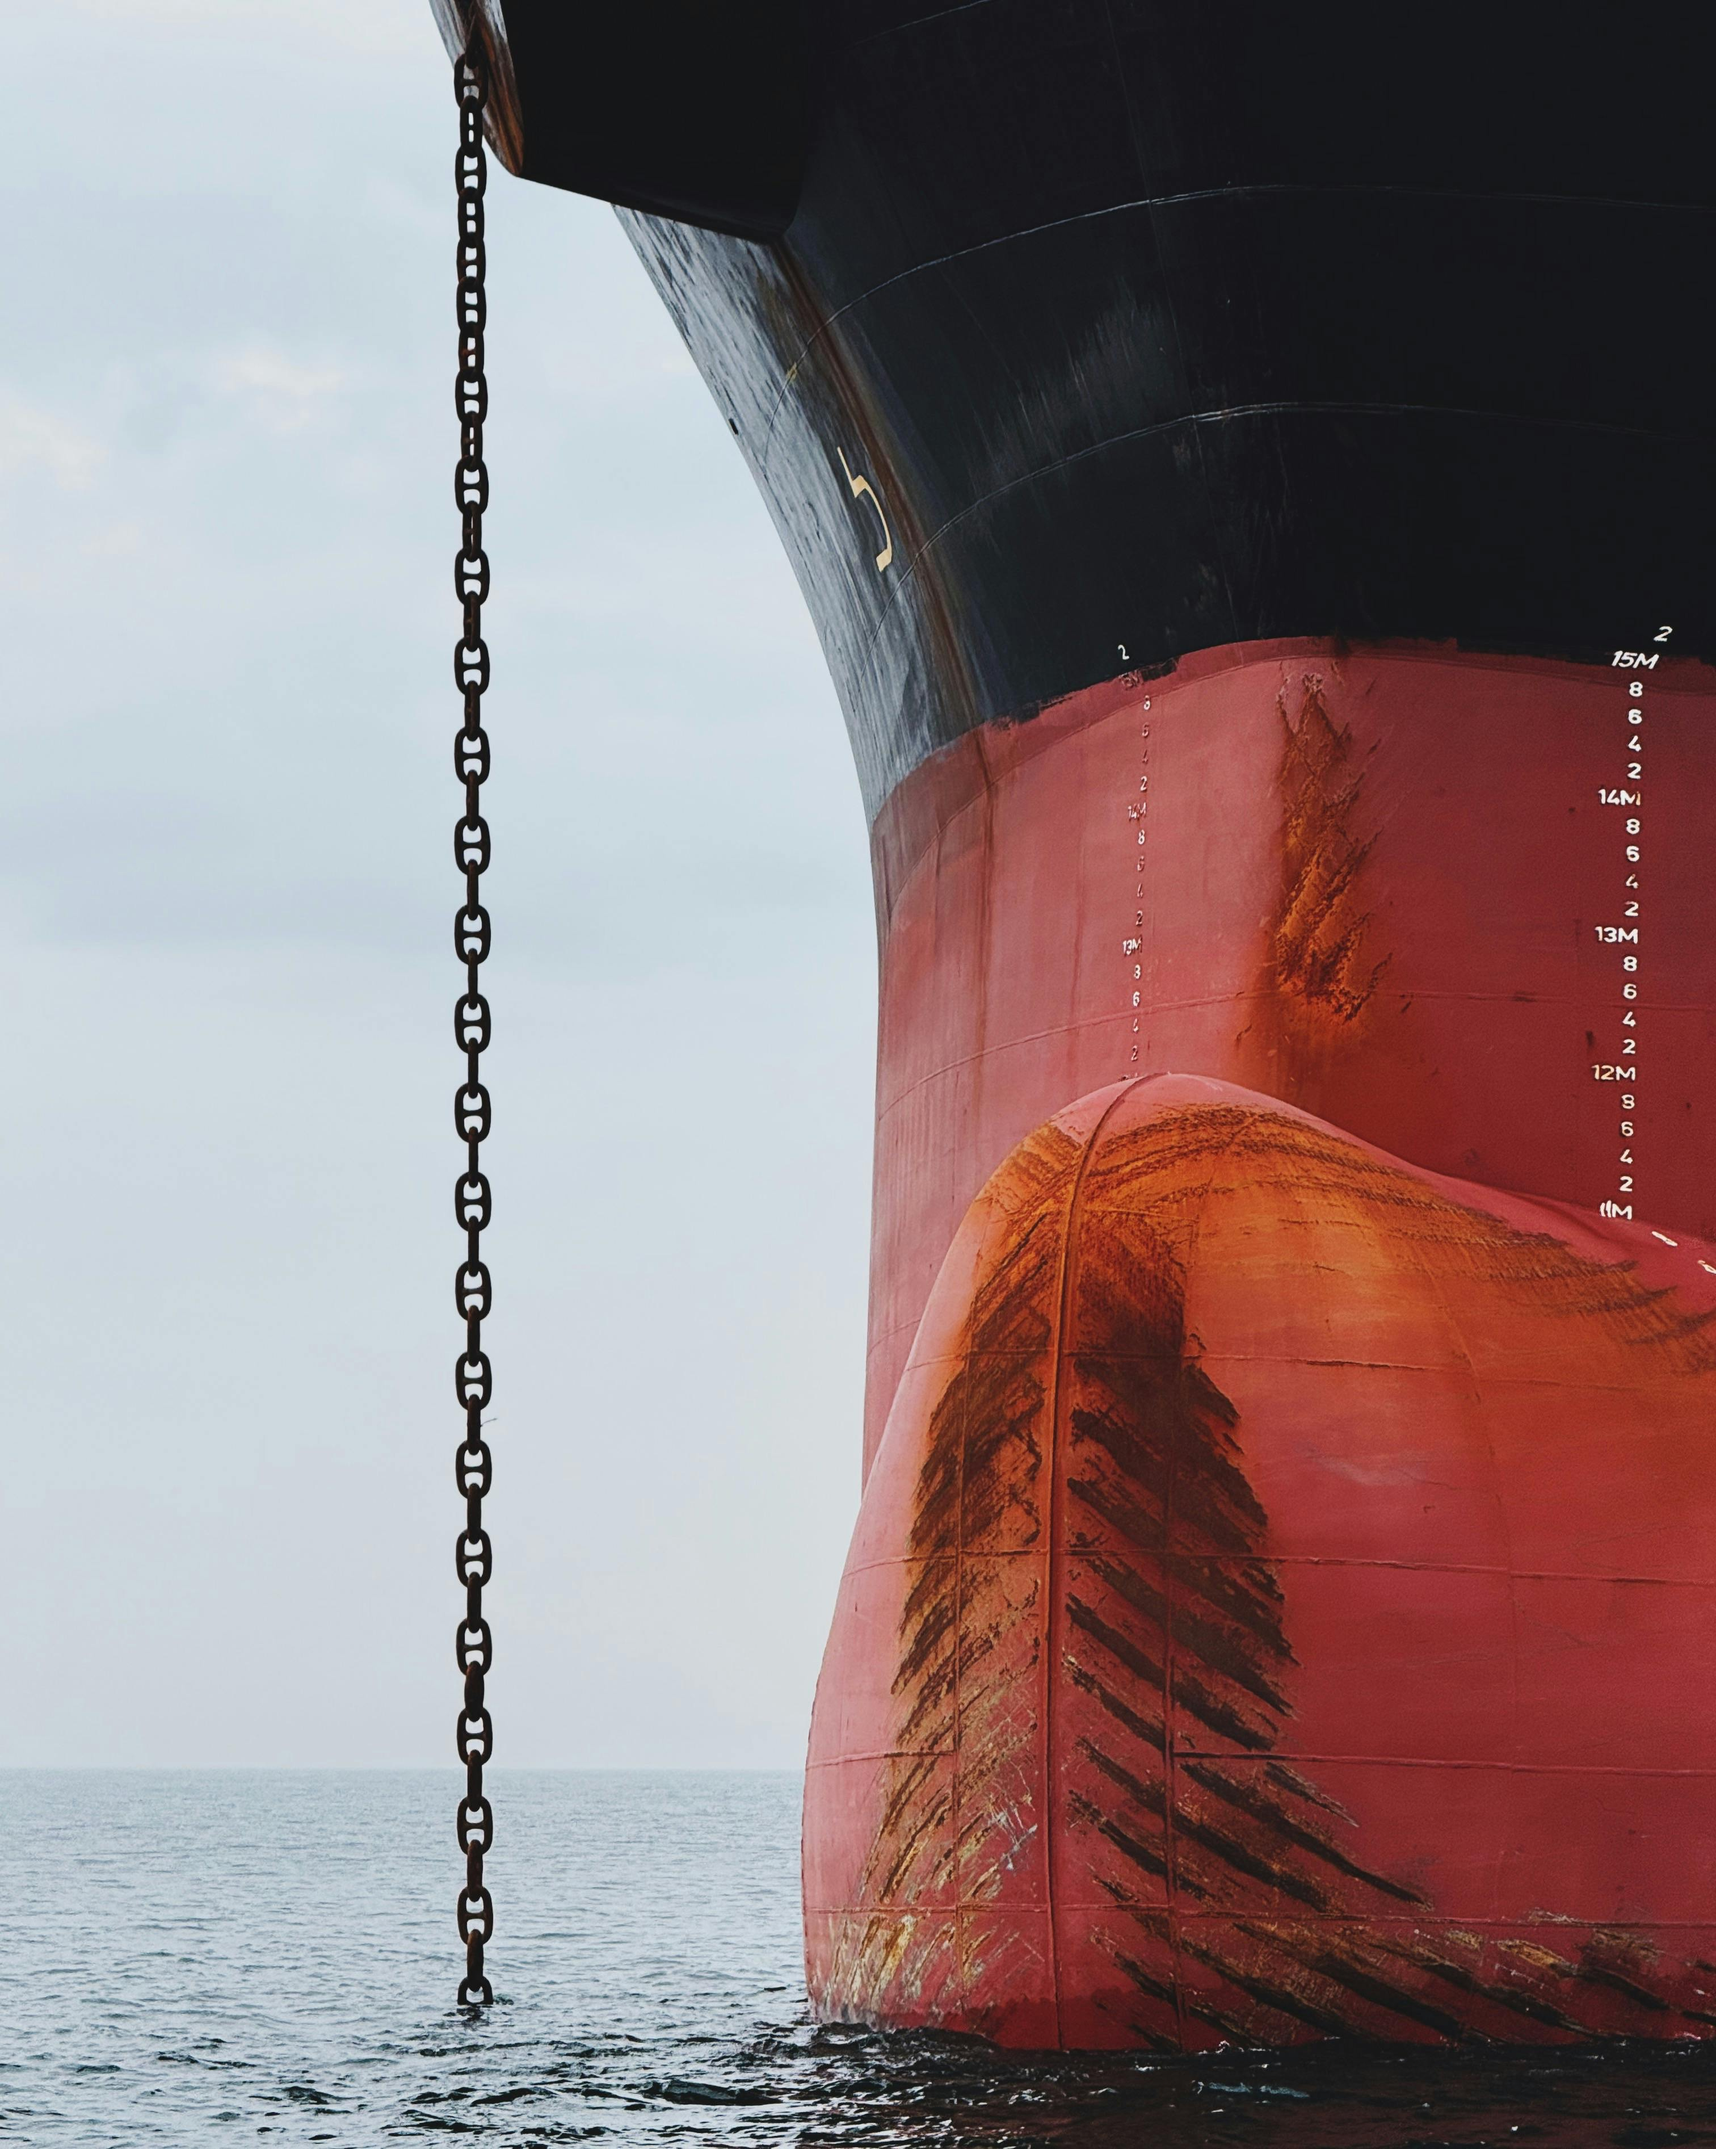
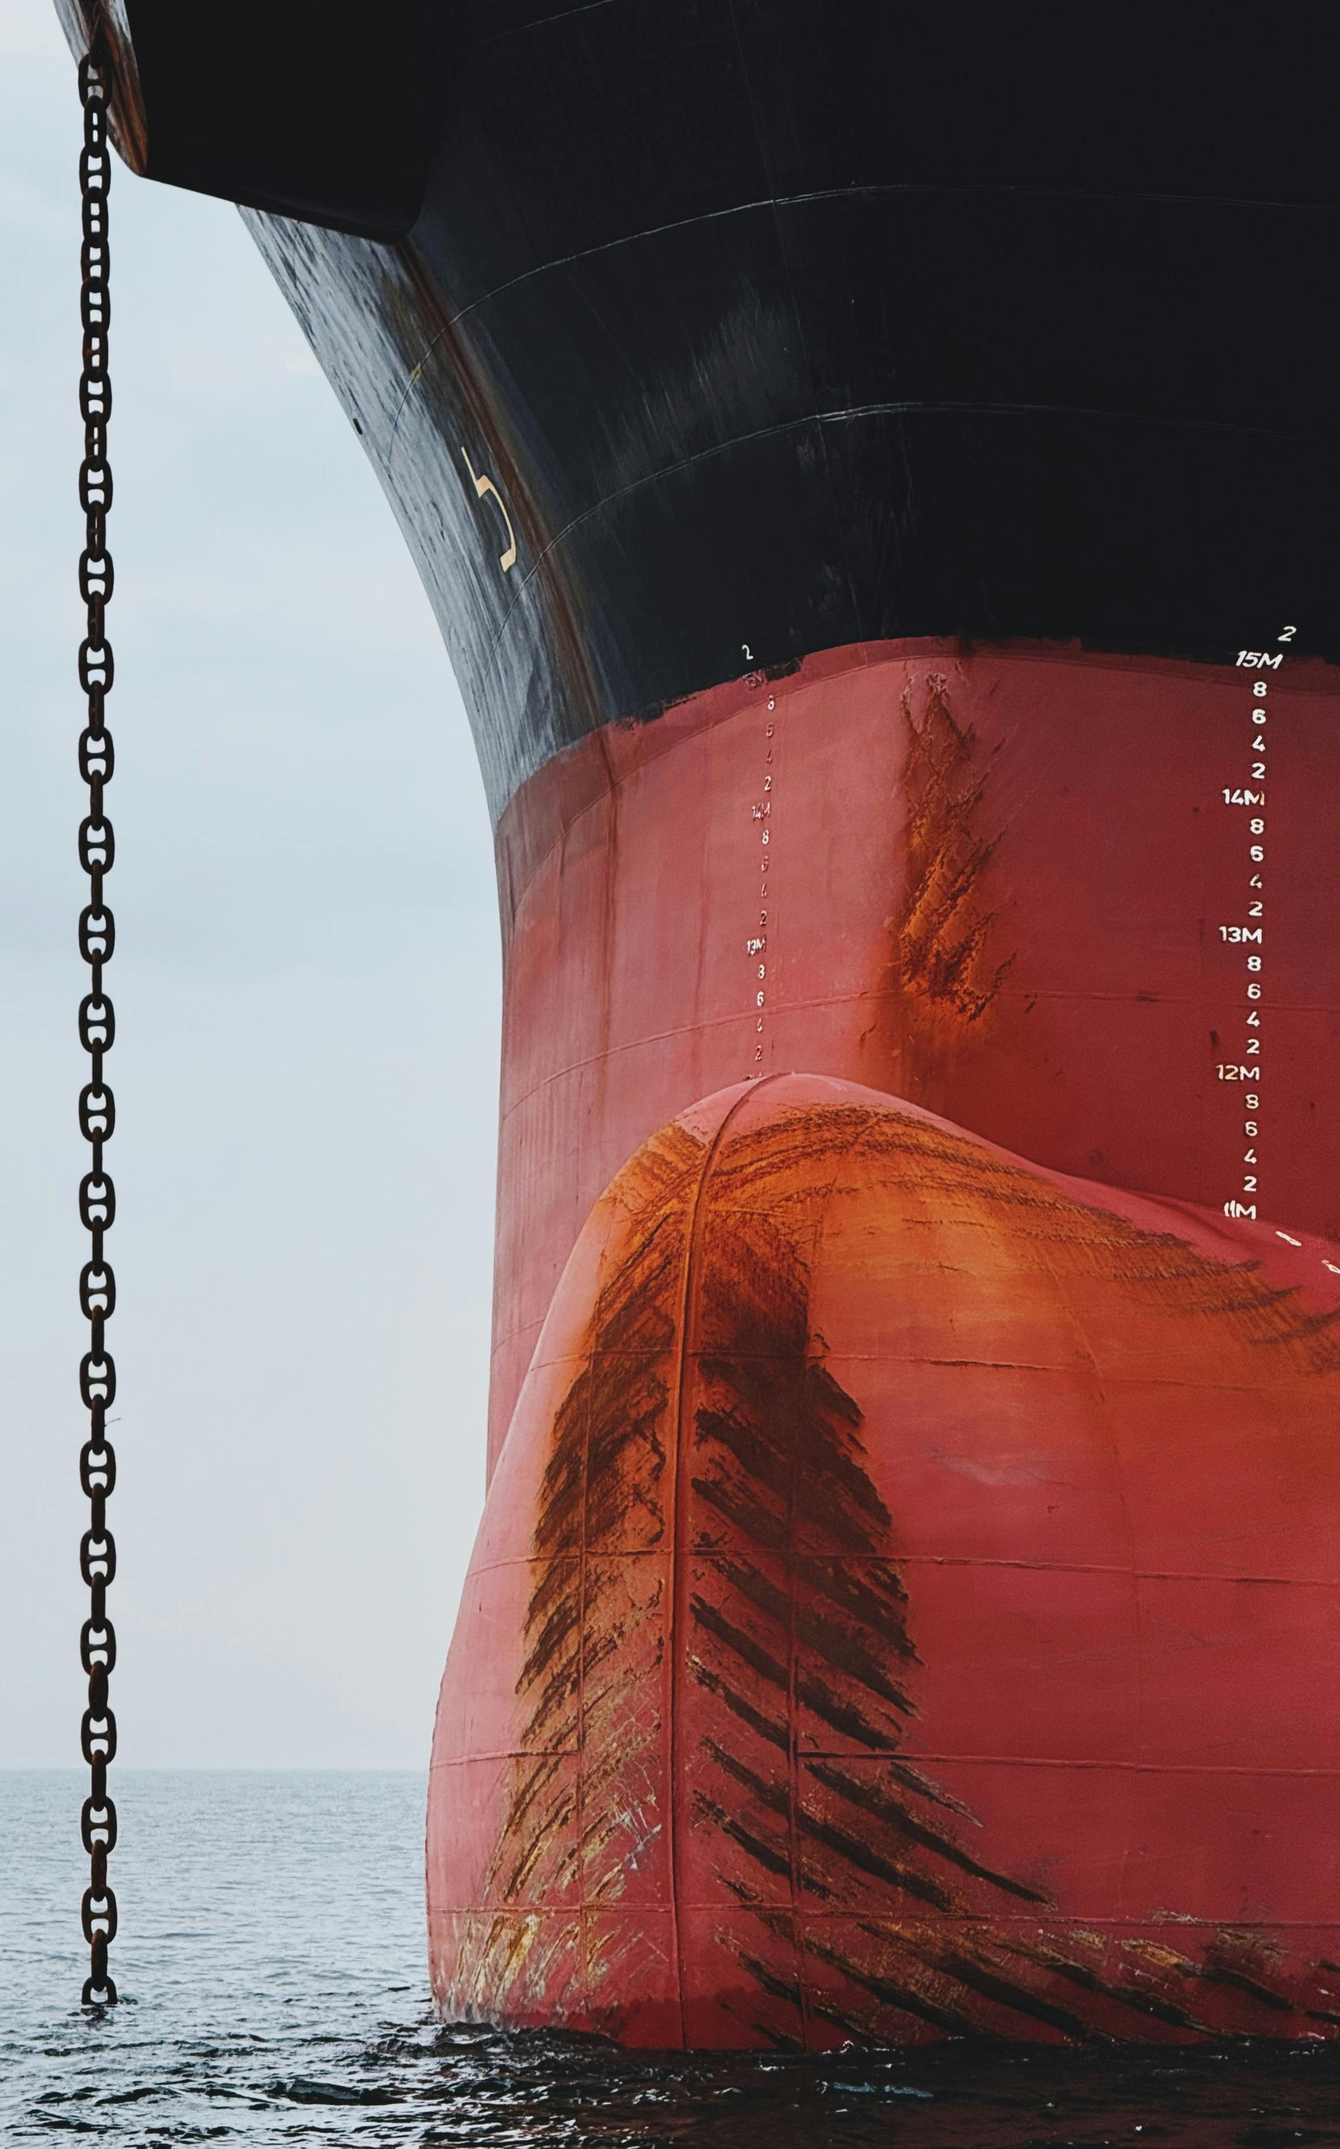
login

diff --git a/src/pages/LoginPage.tsx b/src/pages/LoginPage.tsx
@@ -72,7 +72,7 @@ export default function LoginPage() {
         </div>
       </section>
 
-      <section className="flex w-full flex-1 flex-col justify-center bg-white px-5 py-10 sm:px-8 sm:py-12 lg:h-full lg:min-h-0 lg:w-[26%] lg:shrink-0 lg:px-10 xl:px-12">
+      <section className="flex w-full flex-1 flex-col justify-center bg-white px-5 py-10 sm:px-8 sm:py-12 lg:h-full lg:min-h-0 lg:w-[38%] lg:shrink-0 lg:px-10 xl:px-12">
         <div className="mx-auto w-full max-w-md flex-1 space-y-8 lg:flex lg:max-w-none lg:flex-col lg:justify-center">
           <div className="space-y-2">
             <h2 className="text-2xl font-semibold tracking-tight text-slate-900">
